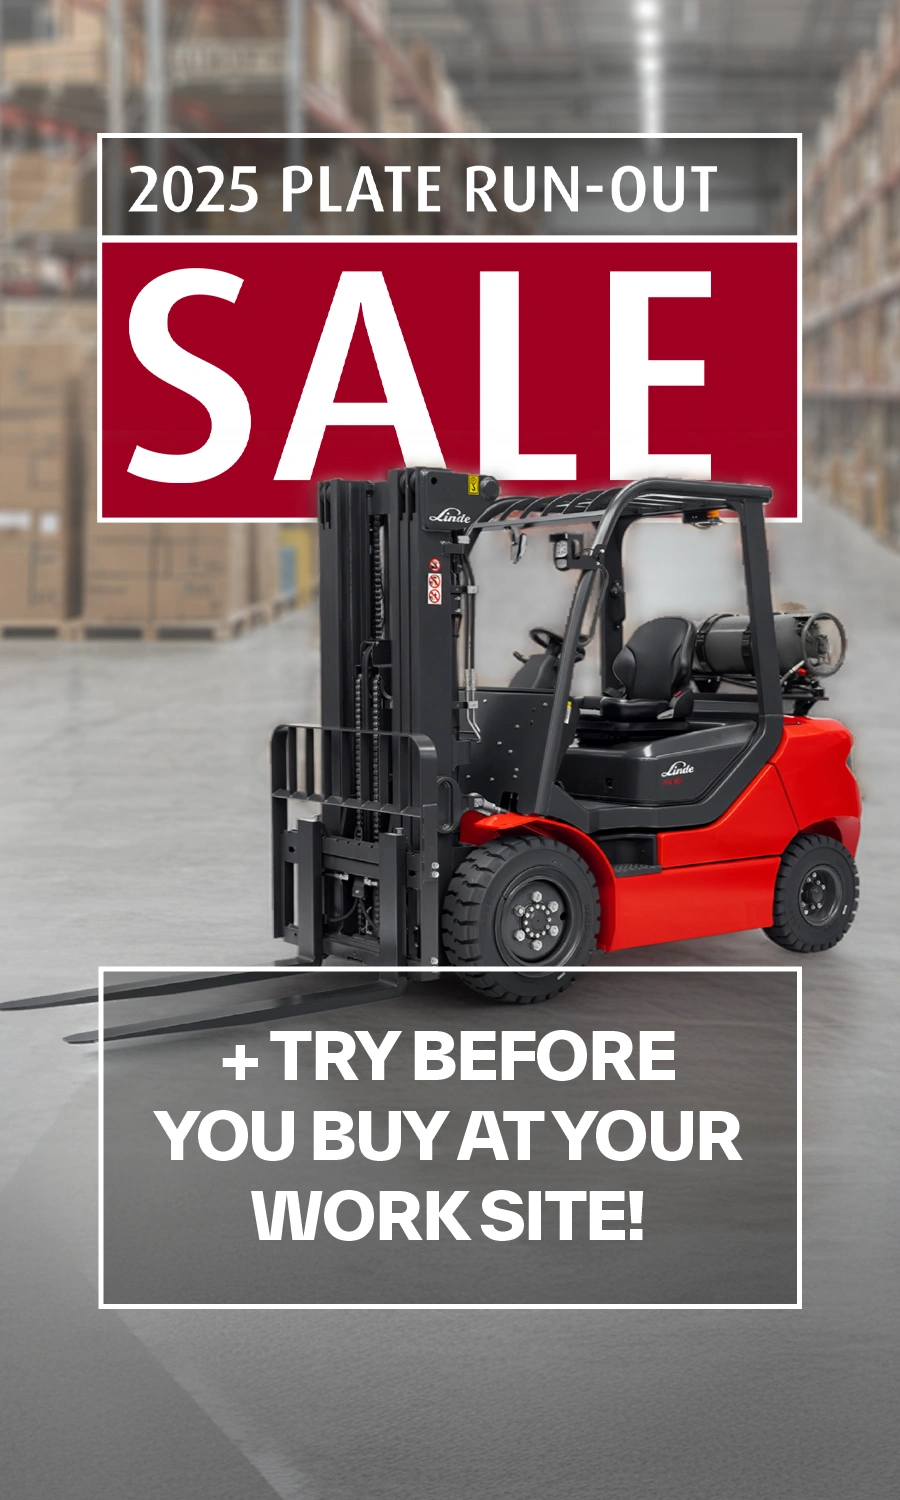
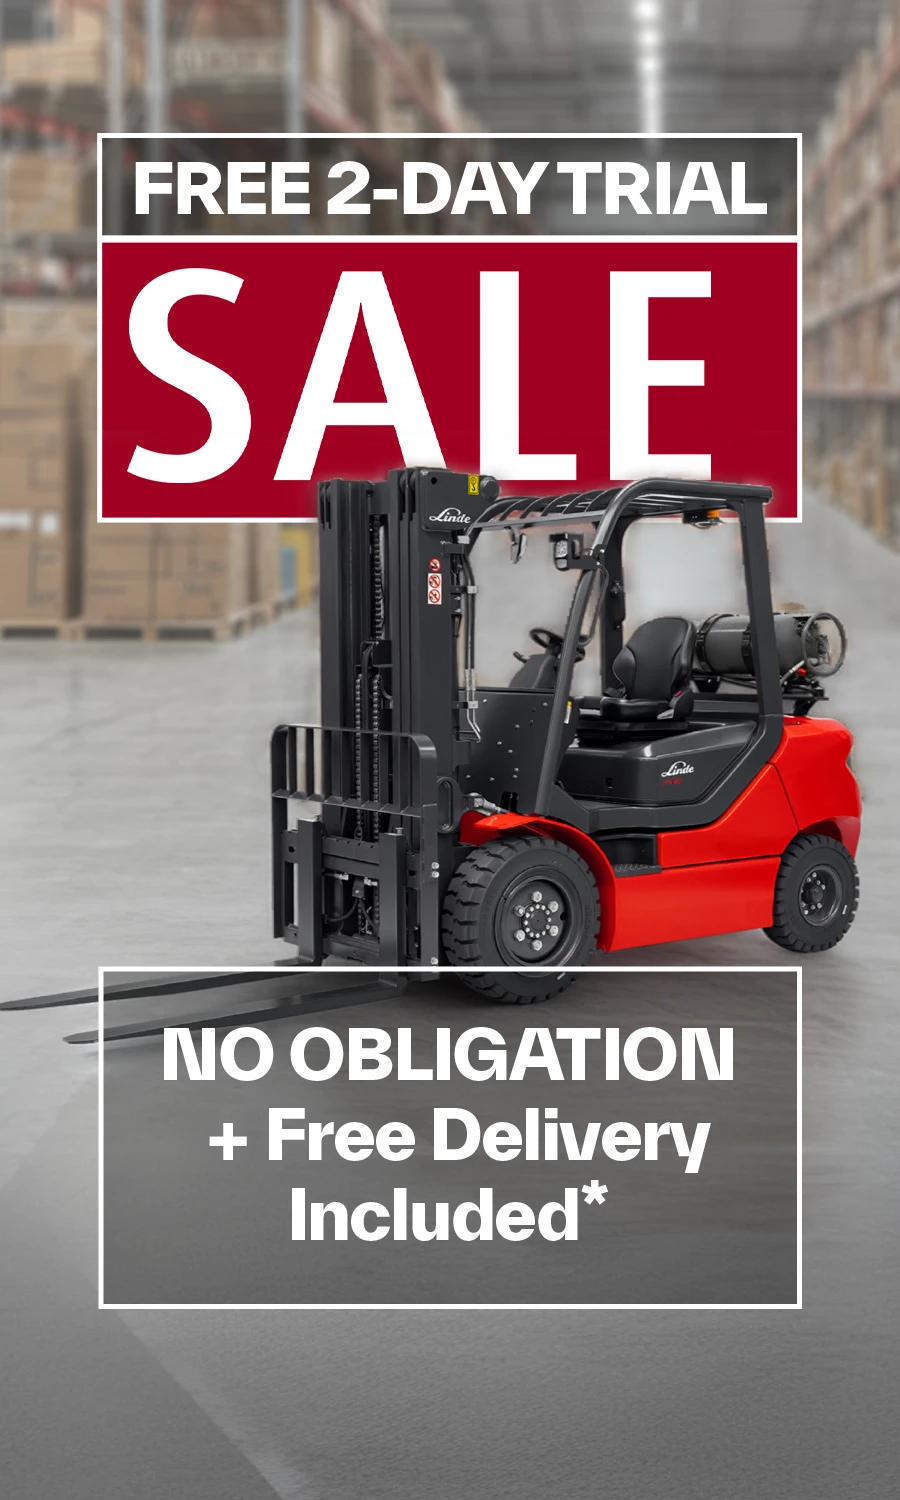
final edits

Changed region(s): [[0.1556, 0.6747, 0.84, 0.828], [0.1244, 0.092, 0.84, 0.1533]]

diff --git a/linde-2025-plate-run-out.html b/linde-2025-plate-run-out.html
@@ -158,7 +158,7 @@
             <div class="innerContent largeH" >
                 <div>
                     <section class="tC rC cC" style="padding-left: 0; padding-right: 0;">
-                        <img src="/images/2026/2025-plate-run-out/offer.webp" alt="2025 Plate Run-Out SALE">
+                        <img src="/images/2026/2025-plate-run-out/offer.webp" alt="2024 Plate Run-Out SALE">
                     </section>
                 </div>
             </div>
@@ -166,7 +166,7 @@
         <span data-src="/images/2026/2025-plate-run-out/banner-bg.jpg" data-media="(min-width: 1100px)"></span><!-- desktop -->
     </div>
 
-    <img src="/images/2026/2025-plate-run-out/[email redacted]" class="marginTopMobile m" alt="2025 Plate Run-Out SALE">
+    <img src="/images/2026/2025-plate-run-out/landing-mob.webp" class="marginTopMobile m" alt="2024 Plate Run-Out SALE">
     
 
 
@@ -197,10 +197,10 @@
                             <h2 class="brandColor balanceMe phoneCenter">Exclusive offer! Try the Linde HT25 onsite before you buy.</h2>
                             <br>
 
-                            <h5>LDX is offering eligible New Zealand businesses the opportunity to trial a 2025 plated Linde 2.5T gas forklift onsite for up to 48 hours, free of rental charges.</h5>
+                            <h5>LDX is offering eligible New Zealand businesses the opportunity to trial a 2024 plated Linde 2.5T gas forklift onsite for up to 48 hours, free of rental charges.</h5>
                             <br>
 
-                            <h5>Take advantage of this limited 2025 plate offer* and experience the Linde HT25 in your own operation before making your next forklift decision.</h5>
+                            <h5>Take advantage of this limited 2024 plate offer* and experience the Linde HT25 in your own operation before making your next forklift decision.</h5>
                             
                             <p class="phoneCenter">* Price on application. Enquire below.</p>
                         
@@ -253,8 +253,8 @@
  
                         <ul>
                             <li>Offer valid for New Zealand business customers only and subject to completion of an application, site survey, and Linde approval.</li>
-                            <li>Eligible customers may trial a plated Linde HT25 B Series 1289 gas forklift for up to 48 hours free of rental charges under Linde's short-term rental agreement.</li>
-                            <li>Linde Material Handling will cover the cost of delivery and pick-up for metro areas within Auckland, Hamilton and Christchurch. Additional charges will apply if delivery or pick-up access is not available, restricted, or otherwise prevents standard transport arrangements.</li>
+                            <li>Eligible customers may trial a 2024 plated Linde HT25 B Series 1289 gas forklift for up to 48 hours free of rental charges under Linde's short-term rental agreement.</li>
+                            <li>Linde Material Handling will cover the cost of delivery and pick-up for metro areas within Auckland and Hamilton. Additional charges will apply if delivery or pick-up access is not available, restricted, or otherwise prevents standard transport arrangements.</li>
                             <li>Equipment is to be used safely as specified and only by trained and licensed operators. No modifications or third-party use permitted.</li>
                             <li>Customers are responsible for any damage, loss, or misuse while the equipment is onsite (fair wear and tear excepted).</li>
                             <li>Customers are responsible for supplying the LPG gas bottle during the demonstration period.(NEW)</li>